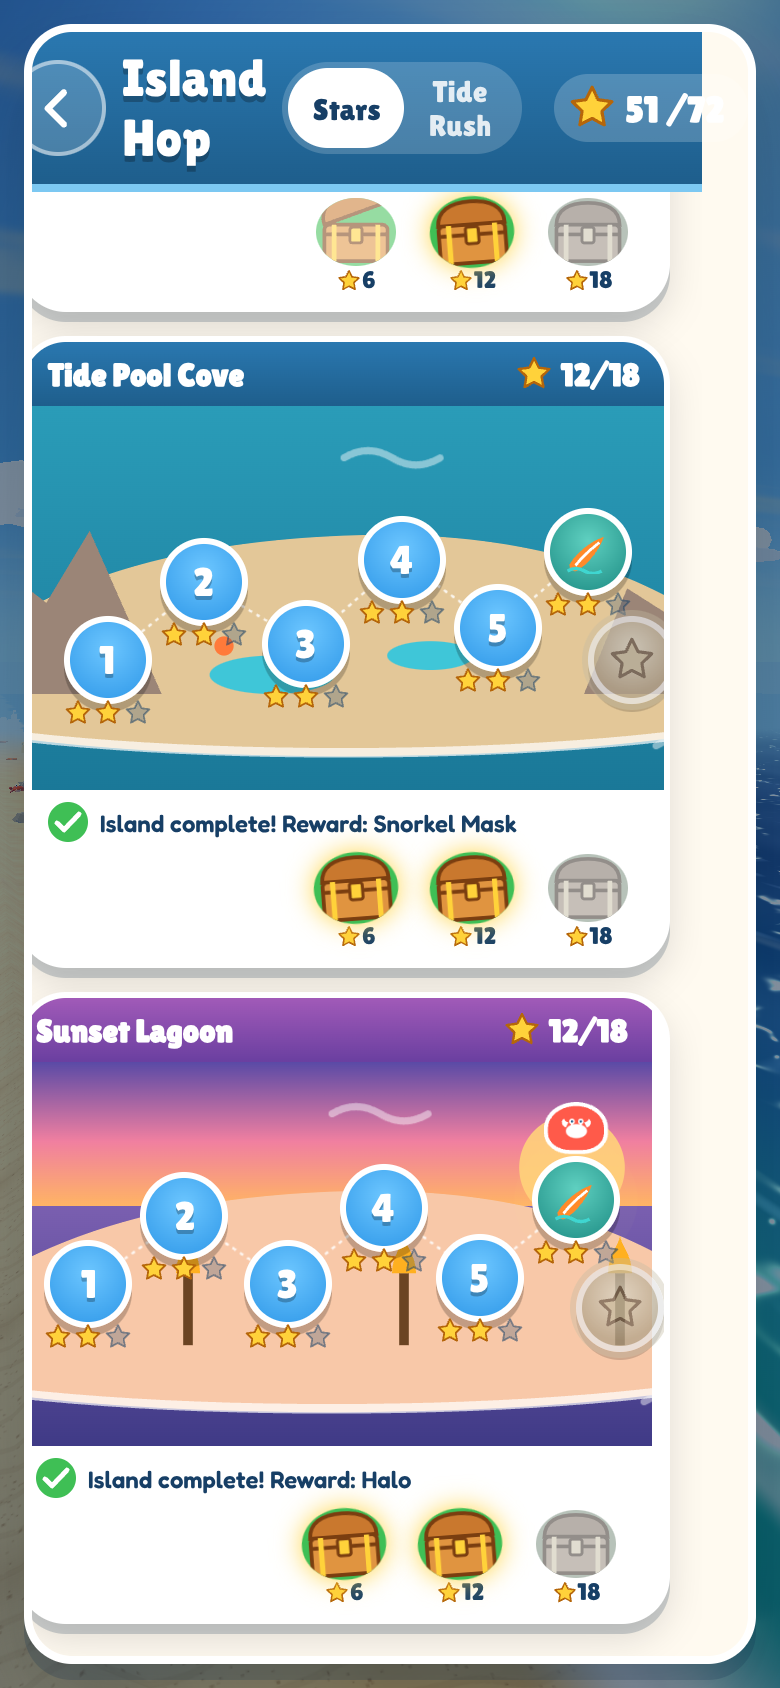
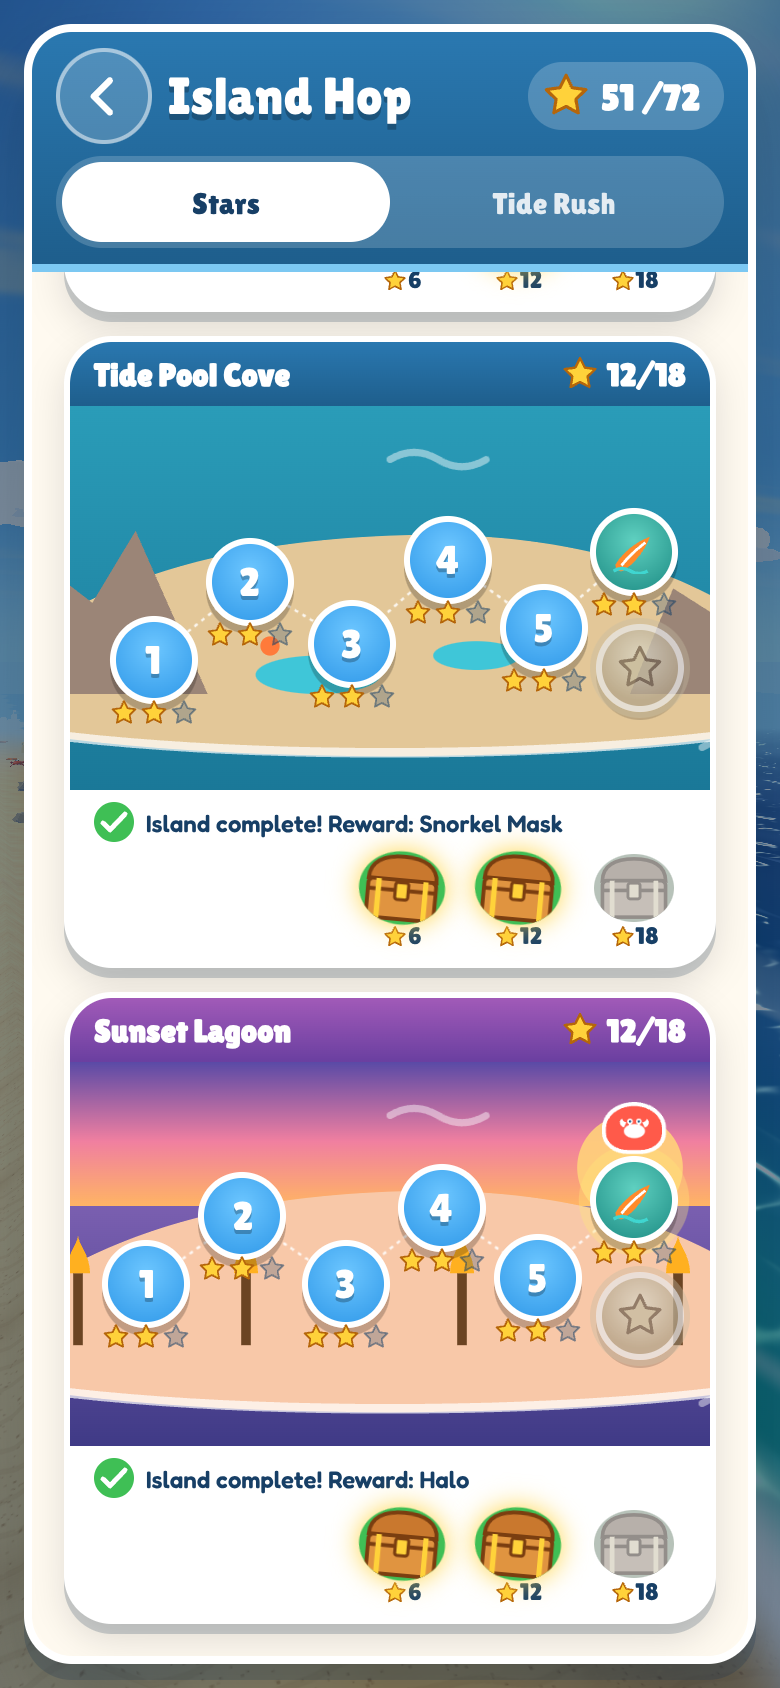
Island Hop map: no sideways pan, header fits narrow phones
- Focusing a level scrolled the clipped map card horizontally (scrollIntoView
  inline: center); now only the map body scrolls, vertically
- Stars / Tide Rush switch drops to its own row under 480 px so the star count fits
- Bonus level node sits inside the island art

Claude-Session: https://claude.ai/code/session_01NMoLfHsvJF6Y6a3sRupRr2

diff --git a/src/ui/islands.ts b/src/ui/islands.ts
@@ -46,7 +46,7 @@ export interface MapData {
 export const CHEST_SVG = `<svg viewBox="0 0 64 56" aria-hidden="true"><path class="ch-lid" d="M6 22c0-12 10-18 26-18s26 6 26 18z" fill="#c9782e" stroke="#7a3e10" stroke-width="3"/><rect x="6" y="22" width="52" height="30" rx="4" fill="#e09440" stroke="#7a3e10" stroke-width="3"/><path d="M6 30h52" stroke="#7a3e10" stroke-width="3"/><rect x="27" y="24" width="10" height="13" rx="2" fill="#ffd23a" stroke="#7a3e10" stroke-width="2.4"/><path d="M14 22v30M50 22v30" stroke="#ffd23a" stroke-width="4"/></svg>`;
 export const CROWN_SVG = `<svg viewBox="0 0 40 40" aria-hidden="true"><path d="M6 30 4 12l9 7 7-11 7 11 9-7-2 18z" fill="#ffd23a" stroke="#b5660a" stroke-width="2.4" stroke-linejoin="round"/><circle cx="20" cy="24" r="2.6" fill="#ff5a8a"/></svg>`;
 /** bonus node position (percent of the island art) */
-const BONUS_AT: [number, number][] = [[95, 70], [96, 66], [95, 66], [95, 64]];
+const BONUS_AT: [number, number][] = [[89, 72], [90, 68], [89, 68], [89, 66]];
 
 /** Node positions (percent of the island art) along each island's path. */
 const NODES: [number, number][][] = [
@@ -167,7 +167,13 @@ export class MapScreen {
       this.body.appendChild(panel);
     });
     const f = focus as HTMLElement | null;
-    if (f) requestAnimationFrame(() => f.scrollIntoView({ block: 'center', inline: 'center' }));
+    // centre the focused level vertically; scrollIntoView would also pan the clipped card sideways
+    if (f)
+      requestAnimationFrame(() => {
+        const r = f.getBoundingClientRect();
+        const b = this.body.getBoundingClientRect();
+        this.body.scrollTop += r.top + r.height / 2 - (b.top + b.height / 2);
+      });
   }
 }
 

diff --git a/src/ui/screens.css b/src/ui/screens.css
@@ -1097,3 +1097,10 @@
   .wn-burst { display: none; }
 }
 @media (prefers-reduced-motion: reduce) { .wn-burst { animation: none; } }
+/* narrow phones: the Stars / Tide Rush switch drops to its own row under the map title */
+@media (max-width: 480px) {
+  #map .page-head { flex-wrap: wrap; row-gap: 6px; }
+  #map .map-mode:not(.hidden) { order: 5; flex: 1 0 100%; justify-content: center; margin-left: 0; }
+  #map .map-mode .mm { flex: 1; }
+  #map .map-mode + .map-count { margin-left: auto; }
+}
